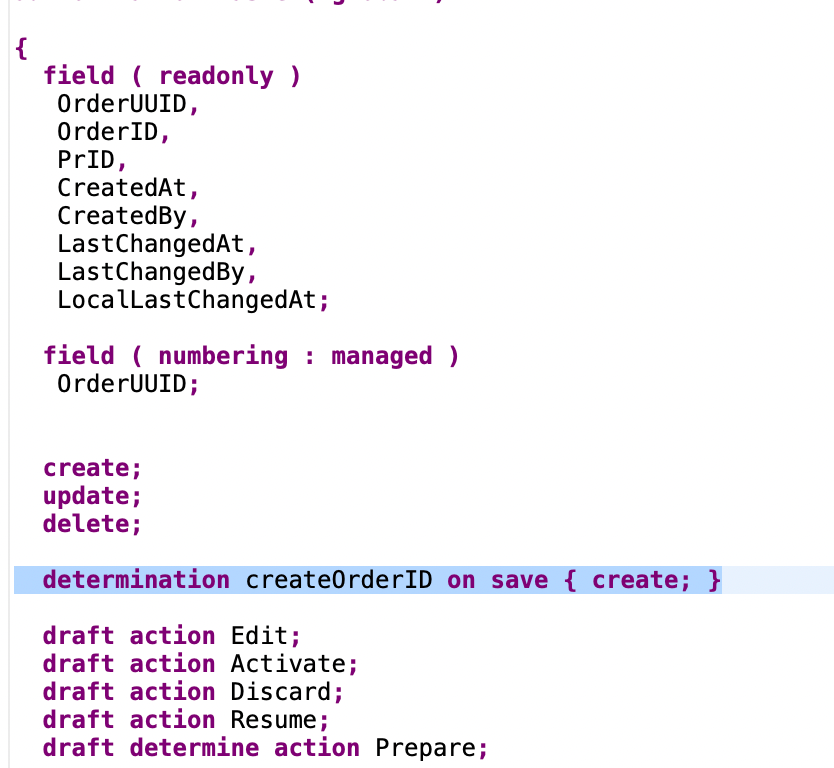
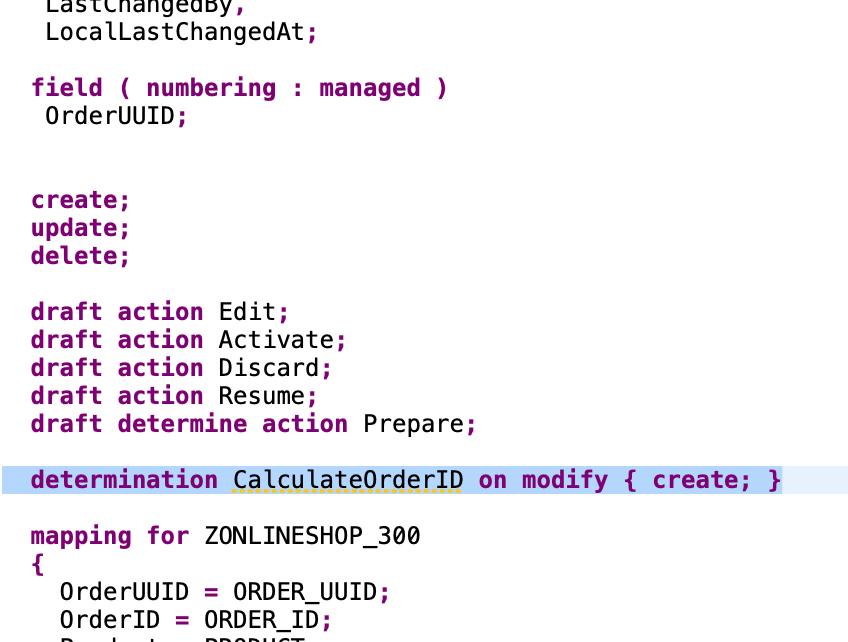
Clean Up ex2

diff --git a/exercises/rap/exercises/ex3/README.md b/exercises/rap/exercises/ex3/README.md
@@ -258,7 +258,7 @@ CLASS lcl_OnlineShop DEFINITION INHERITING FROM cl_abap_behavior_handler.
   1. Add the following determinations to your behavior definition **ZR_ONLINESHOP_###** (in the project explorer under **Core Data Services**** ->**Behavior Definitions**)
 
   <pre lang="ABAP">
-  determination createOrderID on save { create; }
+  determination CalculateOrderID on modify { create; }
   </pre>
 
 
@@ -269,7 +269,7 @@ CLASS lcl_OnlineShop DEFINITION INHERITING FROM cl_abap_behavior_handler.
 
   ![define_determinations](images/310_define_determinations.png) 
 
-  3. Then a new tab is openend with the generated handler taht looks like this:
+  3. Then a new tab is openend with the generated handler that looks like this:
 
    ![define_determinations](images/312_define_determinations.png) 
 
@@ -278,39 +278,52 @@ CLASS lcl_OnlineShop DEFINITION INHERITING FROM cl_abap_behavior_handler.
   
    <pre lang="ABAP">
   
-  METHOD createOrderID.
+  METHOD CalculateOrderID.
 
-    "read all the changed entities
-    READ ENTITIES OF zr_onlineshop_300 IN LOCAL MODE
-      ENTITY onlineshop
-             ALL FIELDS
-             WITH CORRESPONDING #( keys )
-      RESULT DATA(onlineshops)
-      FAILED DATA(read_failed).
+    "read transfered instances
+    READ ENTITIES OF ZR_OnlineShop_### IN LOCAL MODE
+      ENTITY OnlineShop
+      ALL FIELDS
+      WITH CORRESPONDING #( keys )
+      RESULT DATA(OnlineOrders).
 
-    "get rid of all the entities that already have an order id
-    DELETE onlineshops WHERE OrderID IS NOT INITIAL.
+    IF onlineorders[ 1 ]-OrderID IS INITIAL.
 
-    IF onlineshops IS NOT INITIAL.
-      "determine the currently highest order id
-      SELECT MAX( order_id ) FROM zonlineshop_300 INTO @DATA(max_order_id). "active table
+      "delete entries with assigned order ID
+      DELETE OnlineOrders WHERE OrderID IS NOT INITIAL.
+      IF OnlineOrders IS NOT INITIAL.
+        "get max order ID from the relevant active and draft table entries
+        SELECT FROM ZOnlineShop_### FIELDS MAX( order_id ) INTO @DATA(max_order_id). "active table
+        SELECT FROM ZdOnlineShop_### FIELDS MAX( orderid ) INTO @DATA(max_order_id_draft). "draft table
 
-      "and for the one without an order id add one higher
-      MODIFY ENTITIES OF zr_onlineshop_300 IN LOCAL MODE
-        ENTITY OnlineShop
-        UPDATE FIELDS ( OrderID )
-        WITH VALUE #( FOR order IN onlineshops INDEX INTO i (
-                          %tky    = order-%tky
-                          OrderID = max_order_id + i
-                    ) )
-        FAILED DATA(failed).
+        IF max_order_id_draft > max_order_id.
+          max_order_id = max_order_id_draft.
+        ENDIF.
+
+        DATA(OverallStatus) = |{ sy-uname } - is placing order request|.
+        MODIFY ENTITIES OF ZR_OnlineShop_### IN LOCAL MODE
+          ENTITY OnlineShop
+          UPDATE FIELDS ( OrderID  OverallStatus )
+          WITH VALUE #( FOR order IN OnlineOrders INDEX INTO i (
+                             %tky          = order-%tky
+                             OrderID       = max_order_id + i
+                             OverallStatus = overallstatus
+                      ) )
+                      FAILED DATA(failed).
+      ENDIF.
+
+    ELSEIF onlineorders[ 1 ]-product  IS NOT INITIAL.
+
+      MODIFY ENTITIES OF zr_onlineshop_### IN LOCAL MODE
+      ENTITY Onlineshop EXECUTE createPurchaseRequisition FROM CORRESPONDING #( keys ).
+
     ENDIF.
 
   ENDMETHOD.
  
   </pre>
 
-  The code checks for all onlineshop entries that are on the data base, including the one that was just created before our new `createOrderID` method is called. It looks at all the orders whether they already have an `OrderID`, it finds the newest one. Then it looks at the currently biggest order number that was so far assigned. It adds 1 and assigns this new number to our new onlineshop record and modifies the data base using EML (Entity Manipulation Language)
+  The code checks for all onlineshop entries that are on the data base, including the one that was just created before our new `CalculateOrderID` method is called. It looks at all the orders whether they already have an `OrderID`, it finds the newest one. Then it looks at the currently biggest order number that was so far assigned. It adds 1 and assigns this new number to our new onlineshop record and modifies the data base using EML (Entity Manipulation Language)
  
  5. Save and activate your changes.
  6. Open the service binding `ZUI_ONLINESHOP_O4_###` to test your implementation by using the ADT Fiori preview. Alternatively, if you keep the browser window open with the Fiori preview, you can just refresh the browser and it will automatically reflect the new code.
